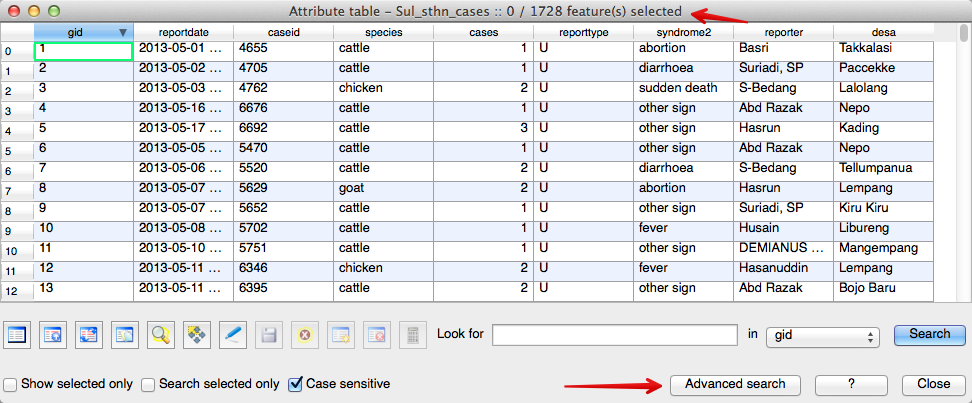
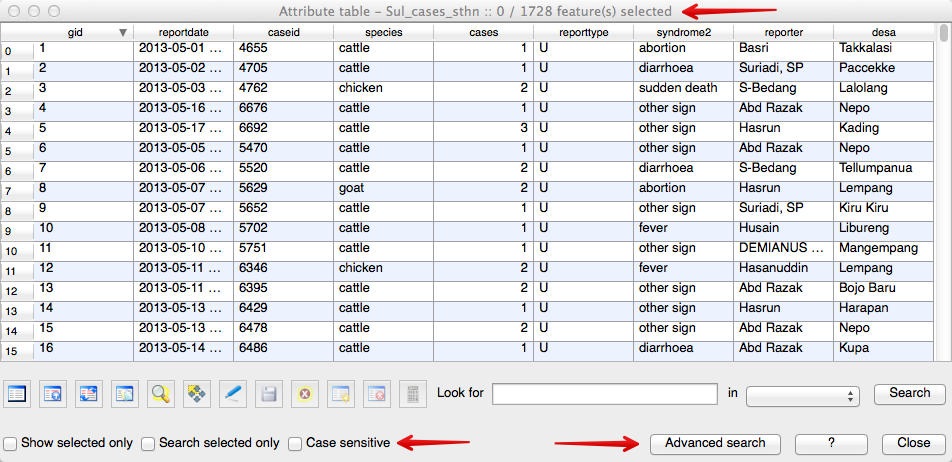
Minor edits. Changes to image 008.png.

diff --git a/animal_health/exercise3.rst b/animal_health/exercise3.rst
@@ -23,7 +23,7 @@ What do you notice?
 .. image:: ../_static/ISIKHNAS/015.png
    :align: center
 
-Every case is positioned in the centre of the village boundaries. This indicates they are not 
+Every case is positioned in the centre of the village boundaries. This suggests they are not 
 the exact coordinates of where the case occurred - all we know is the case occurred somewhere 
 in that particular village. The data is recorded at village level, and it is positioned 
 using the centroid of the village polygon.
@@ -54,7 +54,8 @@ Add this layer to your map. The result should look something like this:
 .. image:: ../_static/ISIKHNAS/018.png
    :align: center
 
-Notice the buffers naturally extend into the sea? We will now use the **Clip** function to amend this.
+Do you see that the buffers naturally extend into the sea? We will now use the **Clip** function to 
+fix this.
 
 |basic| |FA| **Clipping** datasets
 --------------------------------------------------------------------------------
@@ -78,11 +79,12 @@ now look similar to this:
    :align: center
  
 Our new layer is fitting nicely within the coastlines of South Sulawesi and your supervisor can easily 
-see where the 15 kilometre buffers extend to. But is this the best depiction of a buffer zone for 
-the data? Remember we realised the data points were recorded in the database as being in the centre 
-of each village - in reality they are probably taken from somewhere else in the village. This means 
-our 15 kilometre buffers are not going to be as accurate as they might be. In the next section we will 
-create the buffer using the village polygon layer and compare the two results.
+see where the 15 kilometre buffers extend to. But is this the best buffer zone for 
+the data? Remember the data suggests the cases are recorded in the database as being in the centre 
+of each village - in reality they are probably taken from anywhere within the village boundary. This means 
+our 15 kilometre buffers are not going to be as accurate as they might be. 
+
+In the next section we will create the buffer using the village polygon layer and compare the two results.
 
 |basic| |TY| Buffering using the village polygon
 --------------------------------------------------------------------------------

diff --git a/animal_health/exercise1.rst b/animal_health/exercise1.rst
@@ -1,4 +1,4 @@
-|LS| Putting it into practice - ISIKHNAS
+|LS| Putting it into practice - iSIKHNAS
 ===============================================================================
 
 In this chapter we are going to use some of what you have learned and apply it to 
@@ -37,8 +37,9 @@ In order to do this you will have to:
 * use the clip feature to create a layer including only the data required.
 
 
-For the purpose of these exercises you will be using the shapefiles provided, however it 
-is possible to connect directly to the ISIKHNAS database and access the current data.
+For the purpose of these exercises you will be using the shapefiles provided. It is possible to 
+connect directly to the iSIKHNAS database and access the current data however this is beyond the 
+scope of this exercise. 
 
 |basic| |FA| Create a new map
 --------------------------------------------------------------------------------
@@ -166,6 +167,9 @@ in *chicken* in the *Look for* box, choosing *species* in the drop down box and 
 *Search*. 
 Immediately, all the records with chicken recorded as the species are highlighted in the 
 attribute table.
+
+**Note:** Notice the 'Case sensitive' option. It is best to leave this box unticked. That way 
+your search will return results for 'Chicken' and 'chicken', and any other variations without 
 
 However, we don't want just chickens, we want all poultry that are recorded with 'sudden death' 
 as the syndrome. 

diff --git a/animal_health/exercise2.rst b/animal_health/exercise2.rst
@@ -27,7 +27,8 @@ Even greater detail is seen when you click on the *Metadata* tab.
    :align: center
    
 As a general rule, if you are going to manipulate spatial data using tools from the *Vector* menu, 
-your layers will need to be projected.
+your layers will need to be projected to a format where distance is expressed in measurement units 
+such as metres.
 
 For this exercise we will use the Universal Transverse Mercator (UTM) zone 50s (EPSG 32750).
 

diff --git a/animal_health/index.rst b/animal_health/index.rst
@@ -3,6 +3,9 @@
 *******************************************************************************
 
 The purpose of this module is to show how QGIS can be used to assist in animal health scenarios.
+In order to do this, you will have needed to study and be familiar the previous chapters of this 
+manual, but in particular you need to be familiar with chapters 3 - *Creating a basic 
+map*, chapter 7 - *Vector analysis*
 
 
 .. toctree::
